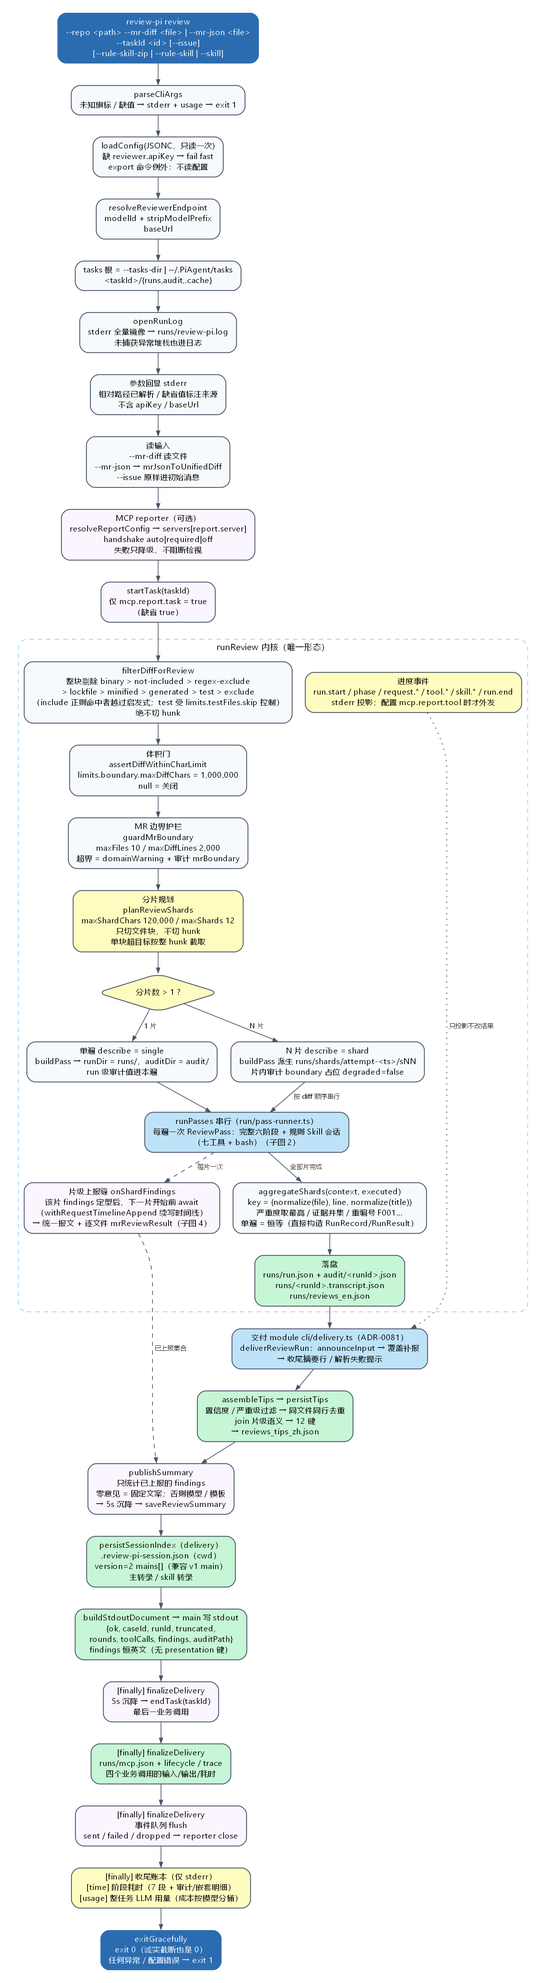
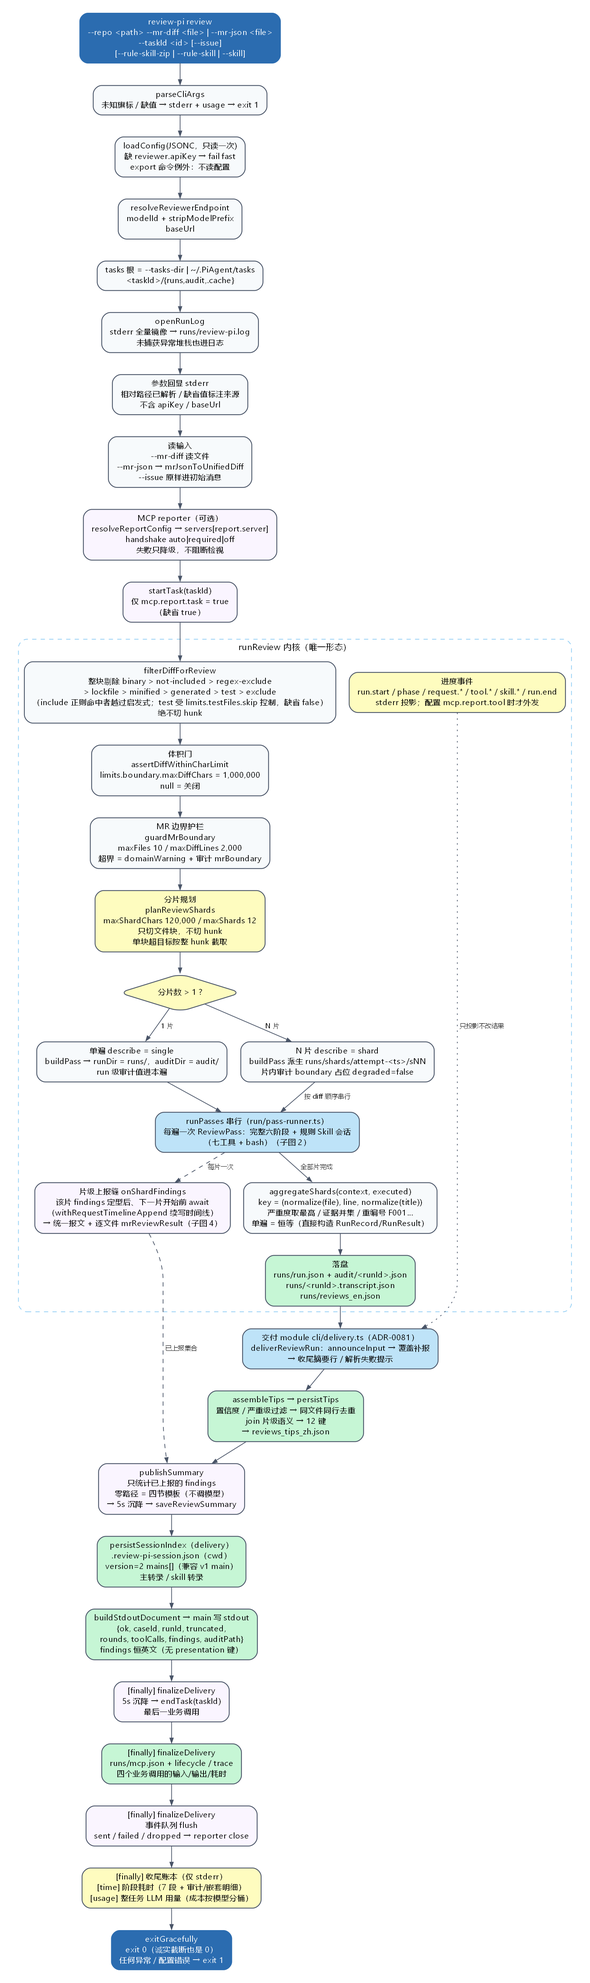
fix(summary): 三种零恢复诚实区分，星级判据只陈述计数（ADR-0103）
- 零上报重新写「未向平台上报任何检视意见」且不作星级评价
- 无可检视文件写「无可检视文件，跳过检视」且不作星级评价
- 零意见新增专用判据「0 条 fatal / major / minor / suggestion（未发现缺陷）」
- 二/三/四星判据删除无法由计数推出的主观结论
- 四节结构、指标、上报时机与退出码不变
- 新增 ADR-0103，并在 0057 / 0078 / 0097 / 0100 加修订注记；同步
  CONTEXT、使用手册、运行手册与 review-pipeline-overview 图

diff --git a/packages/review-pi/src/cli/review-summary.ts b/packages/review-pi/src/cli/review-summary.ts
@@ -25,20 +25,29 @@ export interface ReportLlmRuntime {
  * 意见**（`mrReviewResult` 成功的条目）——总结必须与平台明细一致。
  *
  * 分流与降级链（产物必须有、内容允许降级）：
- * 0. **零已上报意见 ⇒ 确定性结构化模板，不调用模型**——「确实无意见」
- *    与「有意见但全部没上报」共用同一模板（ADR-0100），都写「未发现
- *    缺陷」+ ⭐⭐⭐⭐ 并省略意见速览节；
+ * 0. **零已上报意见 ⇒ 确定性结构化模板，不调用模型**——三种「零」共用四节
+ *    结构与指标，但说明句 / 星级按事实区分（ADR-0103）：确实无意见给
+ *    「未发现缺陷」+ ⭐⭐⭐⭐；有意见但全部没上报、过滤后无可检视文件都
+ *    不谎报「未发现缺陷」，也不作星级评价；
  * 1. 有意见 ⇒ 模型调用（输入 = 中文 tips + findings 摘要 + 权威统计与星级）；
  * 2. 投影降级 / 无 tips ⇒ 输入退为英文 findings（Q10 决策）；
  * 3. 模型调用失败 / 超时 ⇒ **确定性模板** Markdown（同一套结构化规范），
  *    `degradedReason` 留痕——`saveReviewSummary` 一定会被调用。
  */
 
-/**
- * 零意见 / 零上报 / 无可检视文件共用的说明句（ADR-0100；渲染在「意见分布」
- * 表之后）。三种「零」在平台侧不再区分，差异只留在 stdout / stderr / 审计。
- */
+/** 确实无意见（ADR-0103） */
 export const NO_FINDING_NOTE = "本次检视未发现缺陷。";
+
+/** 本地有意见但一条都没上报成功（ADR-0103） */
+export const NO_REPORTED_NOTE = "本次检视未向平台上报任何检视意见。";
+
+/** 过滤后没有任何可检视文件（ADR-0103） */
+export const NO_REVIEWABLE_NOTE = "无可检视文件，跳过检视。";
+
+/** 零上报时的星级行：绝不把「没上报」评成「没问题」 */
+export const UNREPORTED_STAR_LINE = "—（未上报任何检视意见，不作星级评价）";
+/** 未检视任何文件时的星级行 */
+export const NOT_REVIEWED_STAR_LINE = "—（未检视任何文件，不作星级评价）";
 
 /** diff 超 `limits.boundary.maxDiffChars` 跳过检视时的固定总结（ADR-0075，不调用模型） */
 export const DIFF_TOO_LARGE_SUMMARY_MARKDOWN = "# 检视总结\n\nDiff 超大，跳过检视。";
@@ -65,6 +74,12 @@ export interface ReviewSummaryInput {
   readonly tips?: ReviewTipsDocumentLike;
   /** 已成功上报的 findings（平台最终收到的意见；ADR-0057） */
   readonly findings: readonly Finding[];
+  /**
+   * 未被上报的 finding 条数（片级生成失败 / 上报失败 / 结构跳过 / 置信度
+   * 与严重级过滤）。仅在 `findings` 为空时用于区分「确实零意见」与
+   * 「有意见但没上报」（ADR-0103）。
+   */
+  readonly unreportedFindings?: number;
   /** 各片已上报的文件路径（按片序拼接；供总结提及平台已收到的结果） */
   readonly reportedFiles?: readonly string[];
   /** 检视总览的运行统计（缺席时三行渲染 `—`） */
@@ -135,33 +150,51 @@ export function severityStars(findings: readonly Finding[]): 2 | 3 | 4 {
 }
 
 const STAR_CRITERIA: Readonly<Record<2 | 3 | 4, string>> = {
-  2: "存在 ≥1 条 major 或 fatal 意见，需整改后方可合入",
-  3: "0 条 fatal，0 条 major，仅 minor + suggestion，代码逻辑正确可合入",
-  4: "0 条 fatal / major / minor，仅 suggestion 且代码体现防御性设计",
+  2: "存在 ≥1 条 major 或 fatal 意见",
+  3: "0 条 fatal，0 条 major，仅 minor / suggestion",
+  4: "0 条 fatal / major / minor，仅 suggestion",
 };
+
+/** 零意见专用判据：不能沿用「仅 suggestion」的措辞（ADR-0103） */
+const ZERO_FINDING_CRITERION = "0 条 fatal / major / minor / suggestion（未发现缺陷）";
 
 function starText(stars: 2 | 3 | 4): string {
   return "⭐".repeat(stars);
 }
 
+export type ZeroSummaryReason = "no-findings" | "unreported" | "no-reviewable-files";
+
 /**
- * 零意见 / 零上报 / 无可检视文件共用的确定性总结（ADR-0100）：同一套四节
- * 模板 + 「未发现缺陷」+ ⭐⭐⭐⭐，不调用模型。跳过路径的 metrics 由调用方
- * 提供（预算使用 / 资源加载写 0）。
+ * 三种「零」共用四节结构与指标，但说明句 / 星级按事实区分（ADR-0103）：
+ * 只有「确实无意见」才给 ⭐⭐⭐⭐；没上报 / 没检视都不作星级评价。
  */
-export function renderZeroFindingSummary(metrics?: ReviewSummaryMetrics): string {
+export function renderZeroFindingSummary(
+  metrics?: ReviewSummaryMetrics,
+  reason: ZeroSummaryReason = "no-findings",
+): string {
+  const variant =
+    reason === "no-findings"
+      ? { note: NO_FINDING_NOTE }
+      : reason === "unreported"
+        ? { note: NO_REPORTED_NOTE, starLine: UNREPORTED_STAR_LINE }
+        : { note: NO_REVIEWABLE_NOTE, starLine: NOT_REVIEWED_STAR_LINE };
   return renderStructuredSummary(
     { findings: [], ...(metrics !== undefined ? { metrics } : {}) },
-    { includePriority: false, note: NO_FINDING_NOTE },
+    { includePriority: false, ...variant },
   );
 }
 
 export async function buildReviewSummary(input: ReviewSummaryInput): Promise<ReviewSummaryResult> {
   // 零已上报意见：不调用模型，直接按同一套结构化规范确定性渲染。
-  // ADR-0100：无论本地确实零意见还是「有意见但全部没上报」，都走同一模板
-  //（说明句「未发现缺陷」+ ⭐⭐⭐⭐），平台侧不再区分两种零。
+  // ADR-0103：结构与指标共用，但说明句 / 星级按事实区分。
   if (input.findings.length === 0) {
-    return { markdown: renderZeroFindingSummary(input.metrics) };
+    const unreported = (input.unreportedFindings ?? 0) > 0;
+    return {
+      markdown: renderZeroFindingSummary(
+        input.metrics,
+        unreported ? "unreported" : "no-findings",
+      ),
+    };
   }
   const completion = await completeOneShot({
     baseUrl: input.runtime.baseUrl,
@@ -304,6 +337,8 @@ interface StructuredSummaryOptions {
   readonly includePriority?: boolean;
   /** 意见分布表之后的说明句（零意见的固定口径） */
   readonly note?: string;
+  /** 覆盖星级行（零上报 / 未检视时写「不作星级评价」） */
+  readonly starLine?: string;
 }
 
 /** 结构化渲染只依赖已上报 findings 与总览指标，不要求完整总结输入 */
@@ -352,7 +387,10 @@ function renderStructuredSummary(
     "",
     "### 星级评价",
     "",
-    `${starText(stars)} — ${STAR_CRITERIA[stars]}`,
+    options.starLine ??
+      `${starText(stars)} — ${
+        input.findings.length === 0 ? ZERO_FINDING_CRITERION : STAR_CRITERIA[stars]
+      }`,
   );
   return lines.join("\n");
 }

diff --git a/packages/review-pi/src/cli/bin.process.test.ts b/packages/review-pi/src/cli/bin.process.test.ts
@@ -2725,11 +2725,12 @@ test(
         filePath: "pnpm-lock.yaml",
         reviewTips: [],
       });
-      // ADR-0100：无可检视文件与零意见同模板（四节 + 未发现缺陷 + 四星）
+      // ADR-0103：无可检视文件也发四节结构，但不谎报「未发现缺陷」
       const skipMarkdown = String(business[2]?.args.markdownContent);
       expect(skipMarkdown).toContain("## 检视总览");
-      expect(skipMarkdown).toContain("本次检视未发现缺陷。");
-      expect(skipMarkdown).toContain("⭐⭐⭐⭐");
+      expect(skipMarkdown).toContain("无可检视文件，跳过检视。");
+      expect(skipMarkdown).not.toContain("未发现缺陷");
+      expect(skipMarkdown).toContain("—（未检视任何文件，不作星级评价）");
       expect(skipMarkdown).not.toContain("### 高优先级意见速览");
       expect(run.stderr).toContain("跳过检视");
       expect(stub.requests()).toHaveLength(0);
@@ -3617,9 +3618,9 @@ test(
       expect(summaryArgs.taskId).toBe(CLI_TASK_ID);
       const summaryMarkdown = String(summaryArgs.markdownContent);
       expect(summaryMarkdown).toContain("## 检视总览");
-      expect(summaryMarkdown).toContain("本次检视未发现缺陷。");
-      expect(summaryMarkdown).not.toContain("未向平台上报");
-      expect(summaryMarkdown).toContain("⭐⭐⭐⭐");
+      expect(summaryMarkdown).toContain("本次检视未向平台上报任何检视意见。");
+      expect(summaryMarkdown).not.toContain("未发现缺陷");
+      expect(summaryMarkdown).toContain("不作星级评价");
       expect(summaryMarkdown).not.toContain("### 高优先级意见速览");
       // 留痕同样要能证明「文件被检视过」
       const mcpLog = JSON.parse(
@@ -3704,9 +3705,9 @@ test(
       };
       expect(summaryArgs.taskId).toBe(CLI_TASK_ID);
       const summaryMarkdown = String(summaryArgs.markdownContent);
-      expect(summaryMarkdown).toContain("本次检视未发现缺陷。");
-      expect(summaryMarkdown).not.toContain("未向平台上报");
-      expect(summaryMarkdown).toContain("⭐⭐⭐⭐");
+      expect(summaryMarkdown).toContain("本次检视未向平台上报任何检视意见。");
+      expect(summaryMarkdown).not.toContain("未发现缺陷");
+      expect(summaryMarkdown).toContain("不作星级评价");
     } finally {
       await stub.close();
       await mcp.close();
@@ -3856,11 +3857,12 @@ test(
         filePath: "src/main/java/Keep.java",
         reviewTips: [],
       });
-      // ADR-0100：无可检视文件也发统一四节模板
+      // ADR-0103：无可检视文件也发四节结构，但不谎报「未发现缺陷」
       const skipMarkdown = String(business[2]?.args.markdownContent);
       expect(skipMarkdown).toContain("## 检视总览");
-      expect(skipMarkdown).toContain("本次检视未发现缺陷。");
-      expect(skipMarkdown).toContain("⭐⭐⭐⭐");
+      expect(skipMarkdown).toContain("无可检视文件，跳过检视。");
+      expect(skipMarkdown).not.toContain("未发现缺陷");
+      expect(skipMarkdown).toContain("—（未检视任何文件，不作星级评价）");
       const outcome = JSON.parse(run.stdout) as { skipped?: string; findings: unknown[] };
       expect(outcome.skipped).toBe("no-reviewable-files");
       expect(outcome.findings).toEqual([]);

diff --git a/packages/review-pi/src/cli/delivery.test.ts b/packages/review-pi/src/cli/delivery.test.ts
@@ -510,7 +510,7 @@ test("diff-too-large 仍用固定文案", async () => {
   expect(summaries).toEqual([DIFF_TOO_LARGE_SUMMARY_MARKDOWN]);
 });
 
-test("deliverSkip：无可检视文件与零意见同模板，指标写 0（ADR-0100）", async () => {
+test("deliverSkip：无可检视文件用四节结构，不谎报未发现缺陷（ADR-0103）", async () => {
   const summaries: string[] = [];
   const task: DeliveryTaskPort = {
     ...fakeTask({ calls: [] }),
@@ -540,7 +540,8 @@ test("deliverSkip：无可检视文件与零意见同模板，指标写 0（ADR-
   expect(markdown).toContain("| 变更规模 | 3 个文件 / 4 个 hunk（20 行变更） |");
   expect(markdown).toContain("| 预算使用 | 0 次调用 |");
   expect(markdown).toContain("| 资源加载 | 约 0 tokens |");
-  expect(markdown).toContain("本次检视未发现缺陷。");
-  expect(markdown).toContain("⭐⭐⭐⭐");
+  expect(markdown).toContain("无可检视文件，跳过检视。");
+  expect(markdown).not.toContain("未发现缺陷");
+  expect(markdown).toContain("—（未检视任何文件，不作星级评价）");
   expect(markdown).not.toContain("### 高优先级意见速览");
 });

diff --git a/packages/review-pi/src/cli/delivery.ts b/packages/review-pi/src/cli/delivery.ts
@@ -227,7 +227,7 @@ export async function deliverSkip(input: SkipDeliveryInput): Promise<SkipDeliver
     const markdownContent =
       input.skip.reason === "diff-too-large"
         ? DIFF_TOO_LARGE_SUMMARY_MARKDOWN
-        : renderZeroFindingSummary(input.metrics);
+        : renderZeroFindingSummary(input.metrics, "no-reviewable-files");
     const outcome = await task.saveSummary(
       { markdownContent },
       { settleBefore: false },
@@ -534,6 +534,9 @@ async function publishSummary(
   const summaryReport = await input.ports.oneShot.generateSummary({
     ...(summaryTips !== undefined && summaryTips.length > 0 ? { tips: summaryTips } : {}),
     findings: summaryFindings,
+    ...(summaryFindings.length === 0 && unreported > 0
+      ? { unreportedFindings: unreported }
+      : {}),
     ...(input.mcp.reportedFiles.length > 0 ? { reportedFiles: [...input.mcp.reportedFiles] } : {}),
     metrics,
   });

diff --git a/docs/运行手册-单次检视.md b/docs/运行手册-单次检视.md
@@ -313,7 +313,7 @@ cwd 那份是**便利副本**：写失败（目录只读 / 目标名被占）只
 
 **按 glob 跳过检视（ADR-0069）**：配置 `limits.mrFilter.excludeGlobs`（缺省排除 `**/*.lock` / `**/fixtures/**` / `**/*.snap`，ADR-0092；设 `[]` = 不排除）在**检视输入阶段**按文件块整块剔除命中 glob 的文件，例如 `["**/*.md", "docs/**"]`。命中的文件不进 diff、不产 findings / 中文 tips / MCP 意见；它们仍是「变更过的文件」，收尾按 ADR-0068 补一条空 `reviewTips` 的 `mrReviewResult`，不会变成「未检视」。匹配仓库相对 POSIX 路径、大小写不敏感；不含 `/` 的 glob 只比文件名（`*.md` 与 `**/*.md` 等价），`*` / `?` 不跨目录、`**` 跨目录。剔除清单写入审计 / `run.json` 的 `mrFilter`（`reason = "exclude"`）。
 
-**按正则限定检视范围（ADR-0078）**：CLI `--include <regex>` / `--exclude <regex>`（均可重复，同类 OR）与配置 `limits.mrFilter.includeRegex` / `excludeRegex`（缺省 `[]`）在**检视输入阶段**决定"检视哪些文件"：先按 include 选候选（未命中 = `mrFilter` 的 `not-included`），再按 exclude 从候选里剔除（命中 = `regex-exclude`，优先于 include）。命中 include 的文件**越过** `testFiles.skip` / lockfile / minified / generated / 配置 `excludeGlobs` 等启发式；`binary` 恒剔。CLI 出现即整体替换配置对应维度；传空值 = 本次清空该维度（stderr 一行提示）；**非法正则只忽略该条并打一行 stderr，不中断检视**（配置里的非法正则仍在装载期 fail fast）。正则大小写敏感，匹配前把 git 的引号 + 八进制路径归一化为真实路径；同类多条用重复旗标，**不支持逗号列表**。过滤后一个文件块都不剩时跳过检视：不调模型、不写 run 产物，但仍按 ADR-0075 同形上报一次空 `mrReviewResult` + 与零意见相同的四节总结（ADR-0100：变更规模取过滤前 diff，预算 / 资源写 0；正文「未发现缺陷」+ ⭐⭐⭐⭐，exit 0）。
+**按正则限定检视范围（ADR-0078）**：CLI `--include <regex>` / `--exclude <regex>`（均可重复，同类 OR）与配置 `limits.mrFilter.includeRegex` / `excludeRegex`（缺省 `[]`）在**检视输入阶段**决定"检视哪些文件"：先按 include 选候选（未命中 = `mrFilter` 的 `not-included`），再按 exclude 从候选里剔除（命中 = `regex-exclude`，优先于 include）。命中 include 的文件**越过** `testFiles.skip` / lockfile / minified / generated / 配置 `excludeGlobs` 等启发式；`binary` 恒剔。CLI 出现即整体替换配置对应维度；传空值 = 本次清空该维度（stderr 一行提示）；**非法正则只忽略该条并打一行 stderr，不中断检视**（配置里的非法正则仍在装载期 fail fast）。正则大小写敏感，匹配前把 git 的引号 + 八进制路径归一化为真实路径；同类多条用重复旗标，**不支持逗号列表**。过滤后一个文件块都不剩时跳过检视：不调模型、不写 run 产物，但仍按 ADR-0075 同形上报一次空 `mrReviewResult` + 四节总结（ADR-0103：变更规模取过滤前 diff，预算 / 资源写 0；正文「无可检视文件，跳过检视。」且不作星级评价，exit 0）。
 
 **非 diff 区域过滤（ADR-0064）**：配置 `limits.findingScope`（缺省 `enabled: true`、`contextLines: 10`）在**候选拦截链**上只保留落在本遍 diff 变更 hunk 内（或距 hunk 边界不超过 `contextLines` 行）的意见；文件根本不在本遍 diff 的意见直接丢弃。它与上面两类的区别是**作用在 findings 真源**：被拒候选不产 findings、不进中文 tips、不进 MCP 上报，只留审计 `rejections` 与 `rejectionCounts.OUT_OF_SCOPE`。分片模式以片内 diff 为准；空 diff、删除文件、只有 mode 变更的文件 fail-open。想保留同文件远处或未改动文件里的意见，把 `enabled` 设为 `false`；想严格只保 hunk 内，把 `contextLines` 设为 `0`。
 
@@ -369,7 +369,7 @@ parse args (args.ts)
 - **收尾恒有一行账**：检视结束、中文 tips 生成 / 落盘之前，stderr 打一行 `✓ 完成 · 耗时 … · 模型调用 … · token 输入/输出/缓存命中 · 工具 …（主会话 + 规则 Skill） · Ledger 命中 …`（ADR-0030）。开不开进度事件行都有这一行（`--no-progress` 只静音事件行）；token / 工具数与审计同源，Ledger 命中只进这一行、不写审计。
 - **整任务 LLM 总账（ADR-0066）**：进程收尾时在阶段账本之后另打两行 `[usage] 任务总计 | …` 与 `[usage] 一次性明细 | …`，统计**整个任务**的模型调用 / token / 成本——Agent 内（主会话 + 规则 Skill）+ Agent 之后的一次性调用（收尾总结、候选修复；ADR-0090 后 tips 零模型调用）。成本按模型分桶计算（总结可能走 `model.presentation`）。这两行只进 stderr（因此自动进 `runs/review-pi.log`），不改审计 / `run.json` / stdout，也不改变上面那行 `✓ 完成` 的「检视本体」口径；响应未带 usage 的调用仍计次数并在行内标注。
 - **参数回显**：**开跑前**（`runReview` 之前、进度投影之前）stderr 先打一块「本次 review 传入参数」——逐行列出 `--repo` / `--mr-diff|--mr-json` / `caseId` / `--issue` / `--taskId` / `--tasks-dir` / `--model`（原始值 + 已忽略标记）/ `model.default`（生效值）/ `--config` / 规则包相关旗标 / `--no-progress` 的**生效值**；相对路径按 cwd 解析成绝对路径，缺省值标注来源，`--issue` 用 JSON 字符串转义。只回显参数、不含 apiKey 等秘密；stdout 仍是单 JSON 文档。提前打印意味着 diff 读取 / 解析失败或模型失败时也能看到本次输入面（ADR-0043）。
-- **MCP 上报是旁路**（配置见使用手册 §3.10；ADR-0037 / ADR-0045）：不配置 = 零建连零请求，stdout / 审计 / 退出码逐字节不变。配置了才有两层：进度事件批量外发（`mcp.report.tool`，**可选**——缺席 = 事件通道关闭，最小配置只需 `servers` + `report.server`）+ 业务调用（`mcp.report.task`，缺省开）——`startTask`（读 diff 之前，预检失败也有始有终）→ 每片 `mrReviewResult`（该片意见定型即按文件上报，stderr 一行 `MCP mrReviewResult 已上报 N 文件 / M 条意见`；**该片 diff 触及的每个文件都会上报**，没有意见的传 `reviewTips: []`；有 finding 但片级报文生成失败 / tips 全被校验跳过时也补空列表（ADR-0061 覆盖率优先，失败原因留 stderr 与未覆盖登记；被预过滤剔除的文件（测试 / lockfile / 生成物 / minified / binary）在收尾统一补报一条空 tips——**变更即登记**，ADR-0068，stderr 一行 `MCP mrReviewResult 已补报 N 个变更文件 / 0 条意见`；只有整个 diff 解析不出任何文件路径时才只打一行 stderr、不发空调用）；报文的文件路径 / 源码行 / 行号 / 级别 / 规则 id 由代码确定性组装，语义字段（`review` / `suggestion` / `category` / `subcategory`）随候选产出，报文为确定性投影、零模型调用）→ `saveReviewSummary`（中文意见落盘后，Markdown 总结；**零意见发固定文案 `# 检视总结\n\n本次检视未发现缺陷。`、不调用模型**；有意见时模型失败降级模板）→ `endTask`（finally）。业务调用共 3 次尝试（仅传输 / 超时 / HTTP 5xx 类瞬时失败重试，退避 100 / 400 ms）、失败只落 stderr 一行、**绝不改变退出码**；`taskId` 同值直传 `--taskId`。**业务调用之间有两段固定 5 秒沉降**（ADR-0053，应对服务端异步处理导致前端回调乱序）：最后一条 `mrReviewResult` 之后、`saveReviewSummary` 之前等 5 s；`saveReviewSummary` 结束后、`endTask` 之前再等 5 s（stderr 各有 `MCP 固定等待 5000ms（…）` 一行）。启用业务上报的运行因此固定多约 10 s；业务关闭 / 建连失败 / 未走到总结的失败路径不等待。**握手可降级**（`mcp.servers.*.handshake`，缺省 `auto`）：服务端不认 `initialize` 就转无状态直调（每个 `tools/call` 独立 POST），stderr 一行说明；**统一 tips**：`reviews_tips_zh.json` 与 `mrReviewResult` 复用同一份候选语义（`Finding.tips`，12 键 = 10 键 + `id` + `level`；ADR-0090），业务开 / 关同一条路径、零额外模型调用。**不再回落呈现引擎**：生成全灭且无可覆盖 → 本次不产 tips 并清陈旧（Q24/Q26：部分失败尽力而为、全灭不产）。每一条未覆盖的 finding 都在 stderr 打一行带具体原因的留痕（`检视意见未获统一生成覆盖（file:line (id)），tips 缺席该条：<原因>`）；原因未知时回落 `未登记（原因未知）`。
+- **MCP 上报是旁路**（配置见使用手册 §3.10；ADR-0037 / ADR-0045）：不配置 = 零建连零请求，stdout / 审计 / 退出码逐字节不变。配置了才有两层：进度事件批量外发（`mcp.report.tool`，**可选**——缺席 = 事件通道关闭，最小配置只需 `servers` + `report.server`）+ 业务调用（`mcp.report.task`，缺省开）——`startTask`（读 diff 之前，预检失败也有始有终）→ 每片 `mrReviewResult`（该片意见定型即按文件上报，stderr 一行 `MCP mrReviewResult 已上报 N 文件 / M 条意见`；**该片 diff 触及的每个文件都会上报**，没有意见的传 `reviewTips: []`；有 finding 但片级报文生成失败 / tips 全被校验跳过时也补空列表（ADR-0061 覆盖率优先，失败原因留 stderr 与未覆盖登记；被预过滤剔除的文件（测试 / lockfile / 生成物 / minified / binary）在收尾统一补报一条空 tips——**变更即登记**，ADR-0068，stderr 一行 `MCP mrReviewResult 已补报 N 个变更文件 / 0 条意见`；只有整个 diff 解析不出任何文件路径时才只打一行 stderr、不发空调用）；报文的文件路径 / 源码行 / 行号 / 级别 / 规则 id 由代码确定性组装，语义字段（`review` / `suggestion` / `category` / `subcategory`）随候选产出，报文为确定性投影、零模型调用）→ `saveReviewSummary`（中文意见落盘后，Markdown 总结；**零路径不调用模型**：确实无意见 = 四节模板 +「未发现缺陷」+ ⭐⭐⭐⭐；零上报 / 无可检视文件 = 四节模板 + 各自诚实说明句 + 不作星级评价，ADR-0103；有意见时模型失败降级模板）→ `endTask`（finally）。业务调用共 3 次尝试（仅传输 / 超时 / HTTP 5xx 类瞬时失败重试，退避 100 / 400 ms）、失败只落 stderr 一行、**绝不改变退出码**；`taskId` 同值直传 `--taskId`。**业务调用之间有两段固定 5 秒沉降**（ADR-0053，应对服务端异步处理导致前端回调乱序）：最后一条 `mrReviewResult` 之后、`saveReviewSummary` 之前等 5 s；`saveReviewSummary` 结束后、`endTask` 之前再等 5 s（stderr 各有 `MCP 固定等待 5000ms（…）` 一行）。启用业务上报的运行因此固定多约 10 s；业务关闭 / 建连失败 / 未走到总结的失败路径不等待。**握手可降级**（`mcp.servers.*.handshake`，缺省 `auto`）：服务端不认 `initialize` 就转无状态直调（每个 `tools/call` 独立 POST），stderr 一行说明；**统一 tips**：`reviews_tips_zh.json` 与 `mrReviewResult` 复用同一份候选语义（`Finding.tips`，12 键 = 10 键 + `id` + `level`；ADR-0090），业务开 / 关同一条路径、零额外模型调用。**不再回落呈现引擎**：生成全灭且无可覆盖 → 本次不产 tips 并清陈旧（Q24/Q26：部分失败尽力而为、全灭不产）。每一条未覆盖的 finding 都在 stderr 打一行带具体原因的留痕（`检视意见未获统一生成覆盖（file:line (id)），tips 缺席该条：<原因>`）；原因未知时回落 `未登记（原因未知）`。
 
 ---
 

diff --git a/docs/adr/0103-honest-zero-summaries-and-count-only-star-criteria.md b/docs/adr/0103-honest-zero-summaries-and-count-only-star-criteria.md
@@ -1,0 +1,61 @@
+# 0103. 三种「零」恢复诚实区分；星级判据只陈述计数
+
+**状态**：已接受（2026-11-18，用户决策）
+**关联**：[ADR-0100](0100-unified-summary-shape-except-diff-too-large.md)（四节结构与统一零路径；本 ADR 修订其决策 2 的正文口径）、[ADR-0097](0097-summary-fixed-structure-and-stars.md)（星级判据；本 ADR 修订其判据文案）、[ADR-0057](0057-summary-covers-only-reported-findings.md)（已上报集合是唯一信源；恢复其零上报的诚实口径）、[ADR-0078](0078-review-scope-include-exclude-regex.md)（无可检视文件；恢复其「没检视」语义）、[ADR-0075](0075-diff-too-large-skip-with-report.md)（超大 diff 固定文案不变）
+**范围**：本仓 pi 线 0103。只改零路径的说明句 / 星级行与星级判据文案；四节结构、指标、上报时机、退出码、审计键集不变。
+
+## Context
+
+ADR-0100 把三种「零」统一成同一份正文（「本次检视未发现缺陷。」+ ⭐⭐⭐⭐），用户随后发现两处问题：
+
+1. **零意见的四星判据自相矛盾**：`STAR_CRITERIA[4]` 是按「只有 suggestion」写的——「0 条 fatal / major / minor，仅 suggestion 且代码体现防御性设计」。空集合也落四星，于是零意见打印「仅 suggestion」，但意见分布四行全是 0。
+2. **另两种零在总结里说得比事实强**：
+   - 有意见但全部没上报 → 写「未发现缺陷」+ ⭐⭐⭐⭐；
+   - 过滤后无可检视文件 → 同样写「未发现缺陷」+ ⭐⭐⭐⭐，等于把「没检视」评成「没问题」。
+
+另外，三星 / 四星判据里的「代码逻辑正确可合入」「代码体现防御性设计」不是计数能推出的结论，属于主观断言。
+
+## Decision
+
+### 1. 保留四节结构与指标，恢复三种零的诚实正文
+
+三种零共用同一个 `renderStructuredSummary`（结构、变更规模、预算、资源、省略速览节都不变），只在说明句与星级行上区分：
+
+| 零的原因 | 说明句 | 星级行 |
+|---|---|---|
+| 确实无意见 | `本次检视未发现缺陷。` | `⭐⭐⭐⭐ — 0 条 fatal / major / minor / suggestion（未发现缺陷）` |
+| 有意见但全部没上报 | `本次检视未向平台上报任何检视意见。` | `—（未上报任何检视意见，不作星级评价）` |
+| 过滤后无可检视文件 | `无可检视文件，跳过检视。` | `—（未检视任何文件，不作星级评价）` |
+
+判定来源：`buildReviewSummary` 以 `unreportedFindings > 0` 区分「确实零意见」与「零上报」；`deliverSkip` 的 `no-reviewable-files` 路径显式传入 `no-reviewable-files`。
+
+### 2. 星级判据只陈述计数
+
+```ts
+2: "存在 ≥1 条 major 或 fatal 意见"
+3: "0 条 fatal，0 条 major，仅 minor / suggestion"
+4: "0 条 fatal / major / minor，仅 suggestion"
+零意见："0 条 fatal / major / minor / suggestion（未发现缺陷）"
+```
+
+删除「需整改后方可合入」「代码逻辑正确可合入」「代码体现防御性设计」这类无法由计数推出的断言。
+
+### 3. 保持不变
+
+- 超大 diff 的固定文案 `# 检视总结\n\nDiff 超大，跳过检视。`（ADR-0075）；
+- 零路径不调用模型；
+- 四节结构与 `reviewer` 指标口径；
+- 平台侧差异仅体现在总结正文，stdout / stderr / 审计仍保留更细的现场。
+
+## Options（为什么不是别的）
+
+- **维持 ADR-0100 的完全统一**：总结把「没上报 / 没检视」说成「未发现缺陷」，平台无法分辨；用户明确要求修复。否。
+- **零上报 / 未检视也保留四星但换说明句**：星级仍表示「代码没问题」，与事实不符。否。
+- **零意见不给星级**：与 ADR-0100 的「确实干净 = 四星」冲突；空集合判四星有明确规则。否。
+- **判据保留主观结论**：计数无法支撑，且模型只需照抄，错误会被放大。否。
+
+## Consequences
+
+- **好**：总结正文重新与事实一致；平台能区分「真干净 / 没上报 / 没检视」；判据可逐条用分布表验证。
+- **代价**：三种零不再是同一段正文，平台若按单一形态解析需要接受三个说明句 / 星级行；结构化模板与指标仍完全一致。
+- **测试面**：`review-summary.test.ts`（三种零的说明句与星级、零意见专用判据、二/三/四星判据）、`delivery.test.ts`（无可检视文件的诚实文案）、`bin.process.test.ts`（预过滤全剔 / `--include` 未命中 / 零上报 / 置信度全滤 / tips 全跳过）。

diff --git a/docs/使用手册-安装与运行.md b/docs/使用手册-安装与运行.md
@@ -901,7 +901,7 @@ review-pi config show --config ./ci/PiAgent.ci.json
 
 - `startTask(taskId)`：开跑前（建连握手后、读 diff 之前）；
 - `mrReviewResult(taskId, filePath, reviewTips)`：每片检视意见定型后**按文件**上报（大 diff 分片时逐片流式）。**`saveReviewSummary` 之前，diff 里的每个变更文件都必须有一条上报**（ADR-0061）：有意见的带 tips，没有意见的也发一条 `reviewTips: []`（平台据此知道该文件已检视过、无问题）；有 finding 但片级报文生成失败 / tips 全部被校验跳过时**同样补空列表**（覆盖率优先，失败原因留在 stderr 与未覆盖登记里）。整个 diff 解析不出任何文件时只打一行 stderr、不发无路径的空调用。**被预过滤剔除的文件同样要登记**（ADR-0068）：它们也是变更文件，收尾按「过滤前变更文件全集 − 已上报」补报一条 `reviewTips: []`（stderr 一行 `MCP mrReviewResult 已补报 N 个变更文件 / 0 条意见`），因此全 test / 全 lockfile 的 MR 也不会出现「零 `mrReviewResult` + 总结说没问题」。报文里**结构字段由代码确定性组装**（文件路径规范化、源码行取自 `--repo` 真源、行号、严重级四档映射、规则 id），模型只生成四个语义字段（`category` 七枚举归一 / `subcategory` / `review` / `suggestion`）——枚举外或空值逐条跳过并留痕，脏数据不出进程；
-- `saveReviewSummary(taskId, markdownContent)`：中文检视意见落盘后上报 Markdown 总结报告（有意见 = 模型生成、失败降级模板；**零意见 = 固定文案 `# 检视总结\n\n本次检视未发现缺陷。`，不调用模型**）；
+- `saveReviewSummary(taskId, markdownContent)`：中文检视意见落盘后上报 Markdown 总结报告（有意见 = 模型生成、失败降级模板；**零路径不调用模型**：确实无意见 = 四节模板 +「未发现缺陷」+ ⭐⭐⭐⭐；零上报 / 无可检视文件 = 四节模板 + 各自诚实说明句 + 不作星级评价，ADR-0103）；
 - `endTask(taskId)`：收尾（`startTask` 成功发出过才补发）。
 
 调用顺序恒为 `startTask` → 全部 `mrReviewResult` → `saveReviewSummary` → `endTask`，且每个调用都等上一个结束才发。为应对服务端异步处理（`tools/call` 返回 2xx 只代表收到/入队）导致前端回调顺序错乱，客户端在两处各加**固定 5 秒沉降**（ADR-0053）：最后一条 `mrReviewResult` 之后、`saveReviewSummary` 之前；`saveReviewSummary` 结束后、`endTask` 之前。因此启用业务上报的运行固定多约 10 秒，stderr 各有 `MCP 固定等待 5000ms（…）` 一行。业务关闭、建连失败、或检视在总结前失败时不等待。

diff --git a/docs/运行手册-检视全链路流程图.md b/docs/运行手册-检视全链路流程图.md
@@ -501,8 +501,10 @@ announceInput → reportMissingFiles → finishRunLine → assembleTips
   - `summaryFindings = findings ∩ submittedFindingKeys`；
   - `summaryTips = tips 中 id ∈ submittedSourceIds`；
   - 未上报条目不进总结。
-- `findings` 条数为 0 时（ADR-0100）：不调用模型，统一发四节结构性模板（「本次检视未发现缺陷。」+ ⭐⭐⭐⭐，省略速览节）。「确实没有意见」与「本地有意见但一条都没上报」正文不再区分——差异只留在 stdout / stderr / `mcp.json`。
-- 过滤后无可检视文件（ADR-0078）同样走该四节模板：变更规模取过滤前 diff，预算使用 / 资源加载写 0；仅超大 diff（ADR-0075）保留固定文案 `# 检视总结\n\nDiff 超大，跳过检视。`。
+- `findings` 条数为 0 时（ADR-0103）：不调用模型，统一发四节结构性模板（省略速览节），但正文按事实区分：
+  - 确实无意见 →「本次检视未发现缺陷。」+ ⭐⭐⭐⭐（判据写「0 条 fatal / major / minor / suggestion（未发现缺陷）」）；
+  - 本地有意见但一条都没上报 →「本次检视未向平台上报任何检视意见。」+ 不作星级评价。
+- 过滤后无可检视文件（ADR-0078 / 0103）同样走四节模板：变更规模取过滤前 diff，预算使用 / 资源加载写 0；说明句「无可检视文件，跳过检视。」+ 不作星级评价。仅超大 diff（ADR-0075）保留固定文案 `# 检视总结\n\nDiff 超大，跳过检视。`。
 - 有已上报意见 → `buildReviewSummary`：中文 tips + findings 摘要 → Markdown；模型失败 / 空回复 → 确定性模板（计数 + 按文件清单），并记 `degradedReason`。
 - 沉降与顺序：
   - 最后一条 `mrReviewResult` 发完后，固定等 5 s（`TASK_TOOL_SETTLE_MS`）再发总结；

diff --git a/docs/adr/README.md b/docs/adr/README.md
@@ -1,6 +1,6 @@
 # ADR 阅读约定
 
-本目录是本仓（pi 内核线）的架构决策记录，编号连续（当前至 0102）。
+本目录是本仓（pi 内核线）的架构决策记录，编号连续（当前至 0103）。
 
 ## 记录纪律
 
@@ -32,6 +32,7 @@
 | ADR-0080（`--model` 探测与单边降级） | ADR-0093 | 触发前提消失：键阶段 1 保留告警、恒 off；阶段 2 删除 |
 | ADR-0097（决策 6 / 8）、ADR-0057（决策 3）、ADR-0078（决策 5） | ADR-0100 | 零意见 / 零上报 / 无可检视文件的总结形态统一为四节模板 |
 | ADR-0077（决策 2：重放触发条件） | ADR-0101 | 干净 EOF 截断也重放；排除项与预算语义不变 |
+| ADR-0100（决策 2）、ADR-0097（决策 5 判据文案） | ADR-0103 | 三种零恢复诚实区分；星级判据只陈述计数 |
 
 ## 0037 起的新增决策（不逐条列全，只作导航）
 
@@ -101,6 +102,7 @@
 | [ADR-0100](0100-unified-summary-shape-except-diff-too-large.md) | 收尾总结形态统一：除超大 diff 外，零意见 / 零上报 / 无可检视文件都走四节模板（「未发现缺陷」+ ⭐⭐⭐⭐） |
 | [ADR-0101](0101-retry-clean-eof-stream-truncation.md) | 干净 EOF 截断（无 `finish_reason`、body 正常读完）也纳入流重放；排除 content_filter / aborted / 无 start |
 | [ADR-0102](0102-context-window-budget-and-overflow-retry.md) | 上下文窗口预算：`reviewer.contextWindow` + 发送前收窄输出；溢出 400 时减半 `max_tokens` 重试 |
+| [ADR-0103](0103-honest-zero-summaries-and-count-only-star-criteria.md) | 三种「零」恢复诚实区分（保留四节结构）；星级判据只陈述计数 |
 
 ## 历史路径口径（ADR-0035，2026-11-03）
 

diff --git a/docs/adr/0097-summary-fixed-structure-and-stars.md b/docs/adr/0097-summary-fixed-structure-and-stars.md
@@ -4,6 +4,11 @@
 **关联**：[ADR-0045](0045-mcp-business-task-tools.md)（片级报文与收尾总结上报）、[ADR-0057](0057-summary-covers-only-reported-findings.md)（总结只覆盖已上报意见；本 ADR 修订其决策 3 的呈现形态）、[ADR-0090](0090-chinese-native-review.md)（中文原生检视）、[ADR-0046](0046-configurable-max-rounds.md)（轮次上限可配，故不引入固定调用预算分母）
 **范围**：本仓 pi 线 0097。只改 `saveReviewSummary` 的 Markdown 形态与指标来源；上报时机、已上报口径、零意见不调模型、退出码、审计 / 转录 / stdout 均不变。
 
+> **后续修订（[ADR-0103](0103-honest-zero-summaries-and-count-only-star-criteria.md)，2026-11-18）**：
+> 决策 5 的星级判据文案改为只陈述计数（删除「需整改后方可合入」「代码逻辑正确
+> 可合入」「代码体现防御性设计」等主观结论），并为零意见增加专用判据；
+> 2–4 星的硬判据本身不变。
+
 > **后续修订（[ADR-0100](0100-unified-summary-shape-except-diff-too-large.md)，2026-11-18）**：
 > 决策 6 的零上报文案 / 星级与决策 8 的「无可检视文件保持纯文案」被推翻——三种零
 >（确实无意见 / 有意见但没上报 / 无可检视文件）统一为同一四节模板（「未发现缺陷」+
